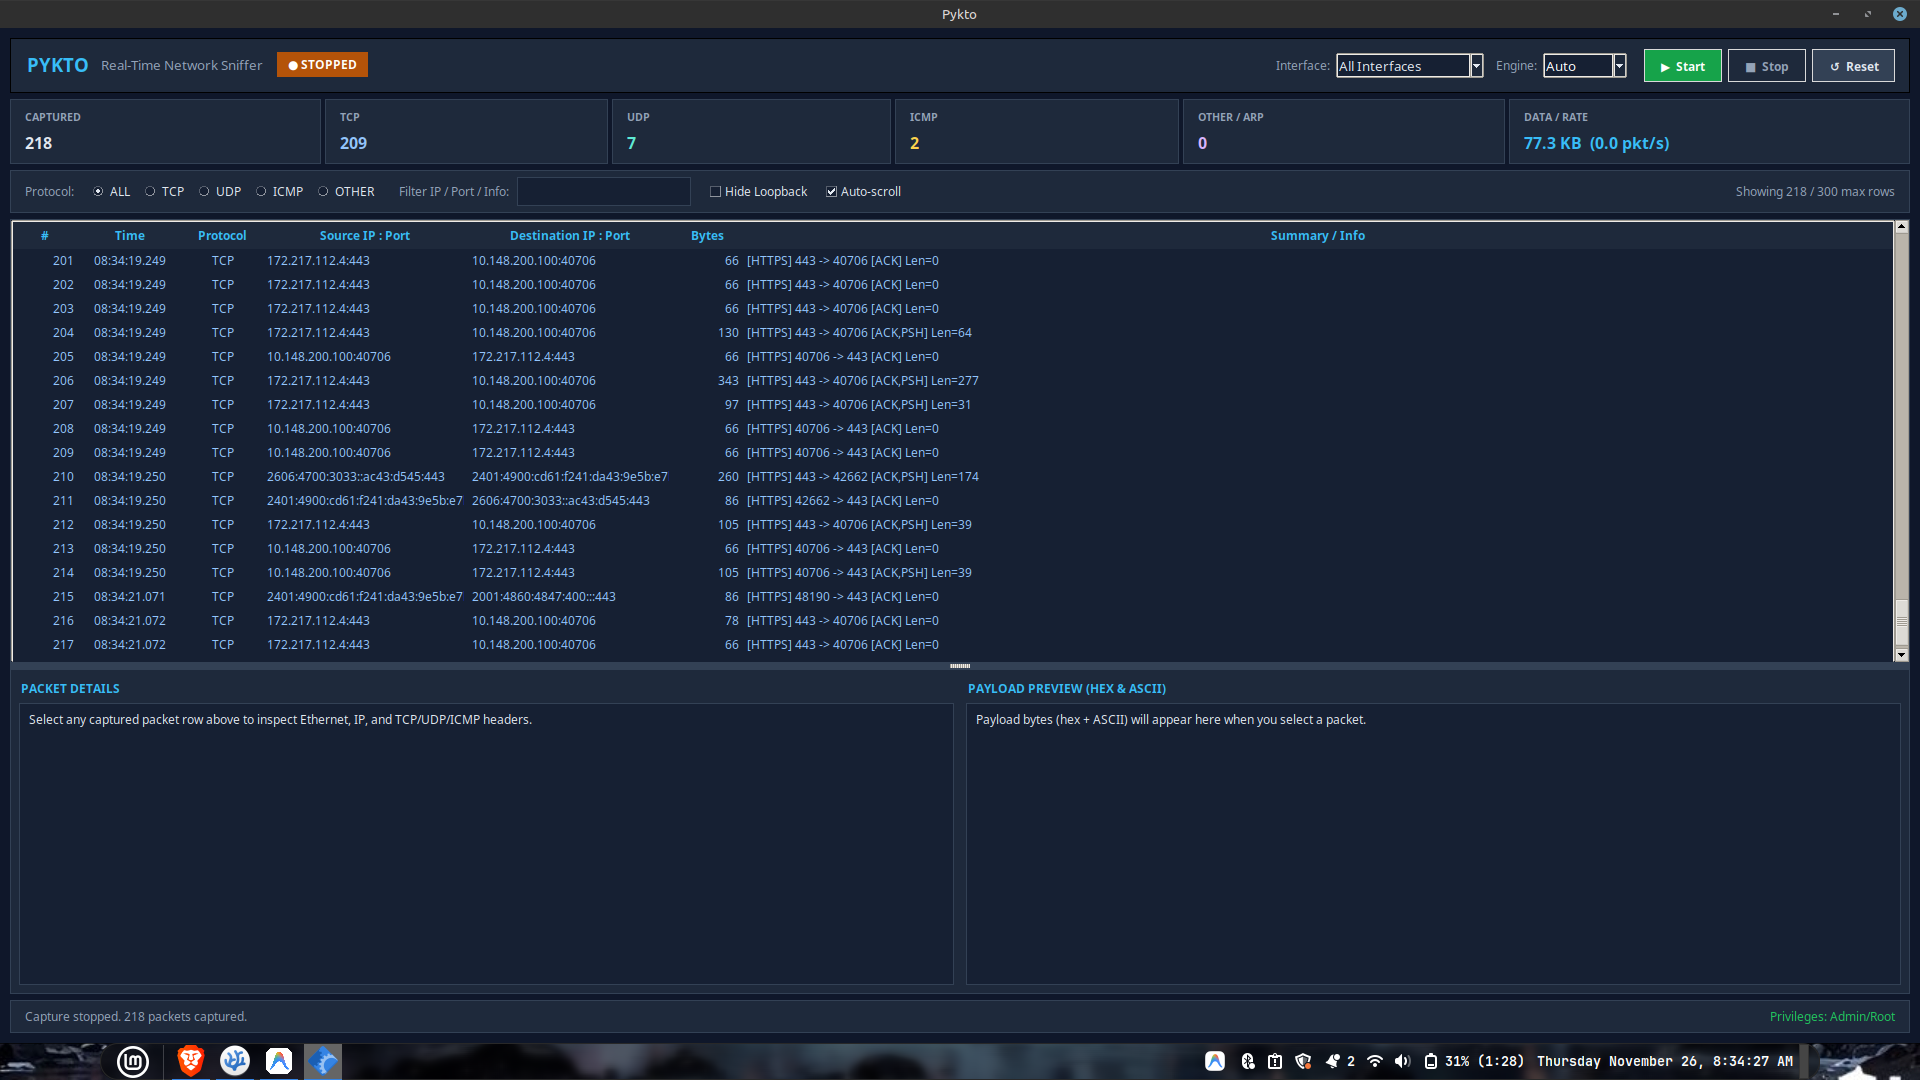
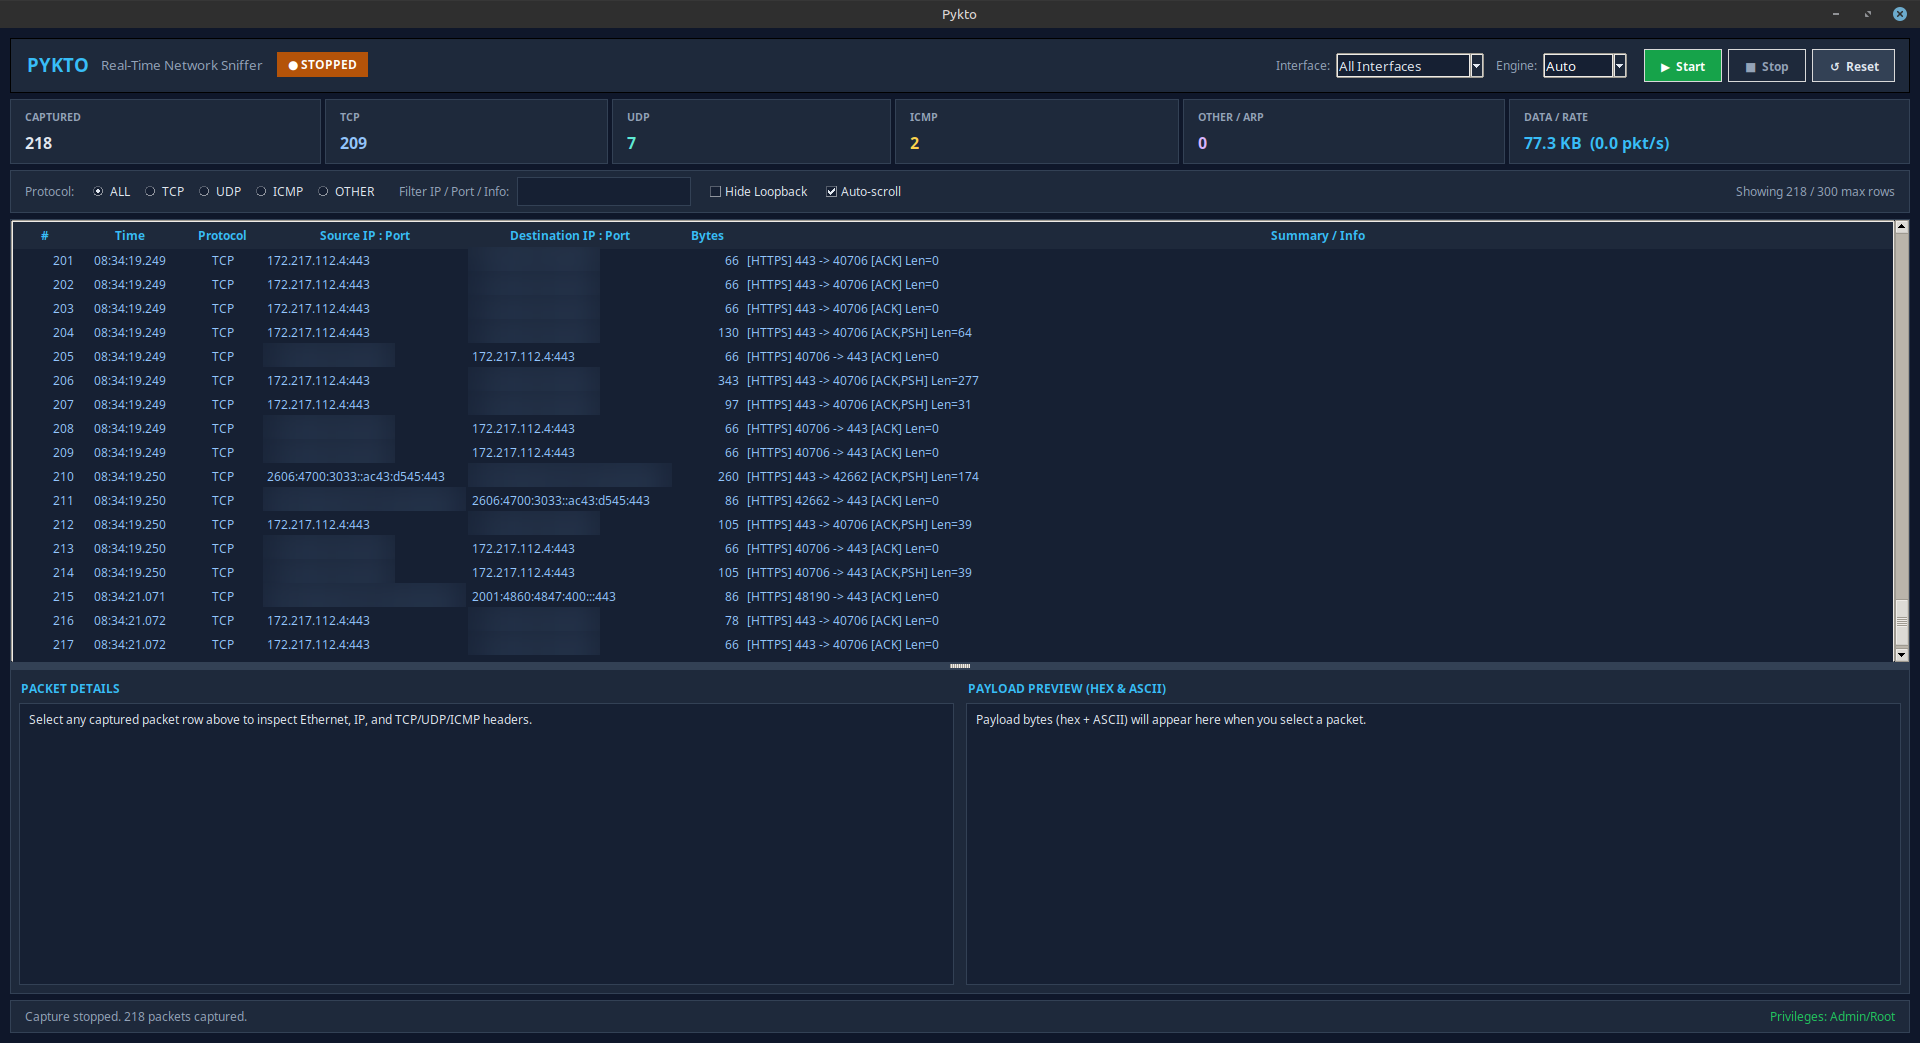
Feat:image folder is added

diff --git a/README.md b/README.md
@@ -4,6 +4,22 @@
 
 ---
 
+## Screenshots
+
+### Dashboard (Idle)
+![Pykto Dashboard](Snifx/src/pykto_dashboard.png)
+
+### Live Packet Capture (`▶ Start`)
+![Pykto Capturing Live](Snifx/src/pykto_start.png)
+
+### Stopped Capture (`■ Stop`)
+![Pykto Stopped](Snifx/src/Pykto_stop.png)
+
+### Reset (`↺ Reset`)
+![Pykto Reset](Snifx/src/pykto_dashboard.png)
+
+---
+
 ## Key Features
 
 - **Simple Controls**: One-click **Start**, **Stop**, and **Reset** buttons.
